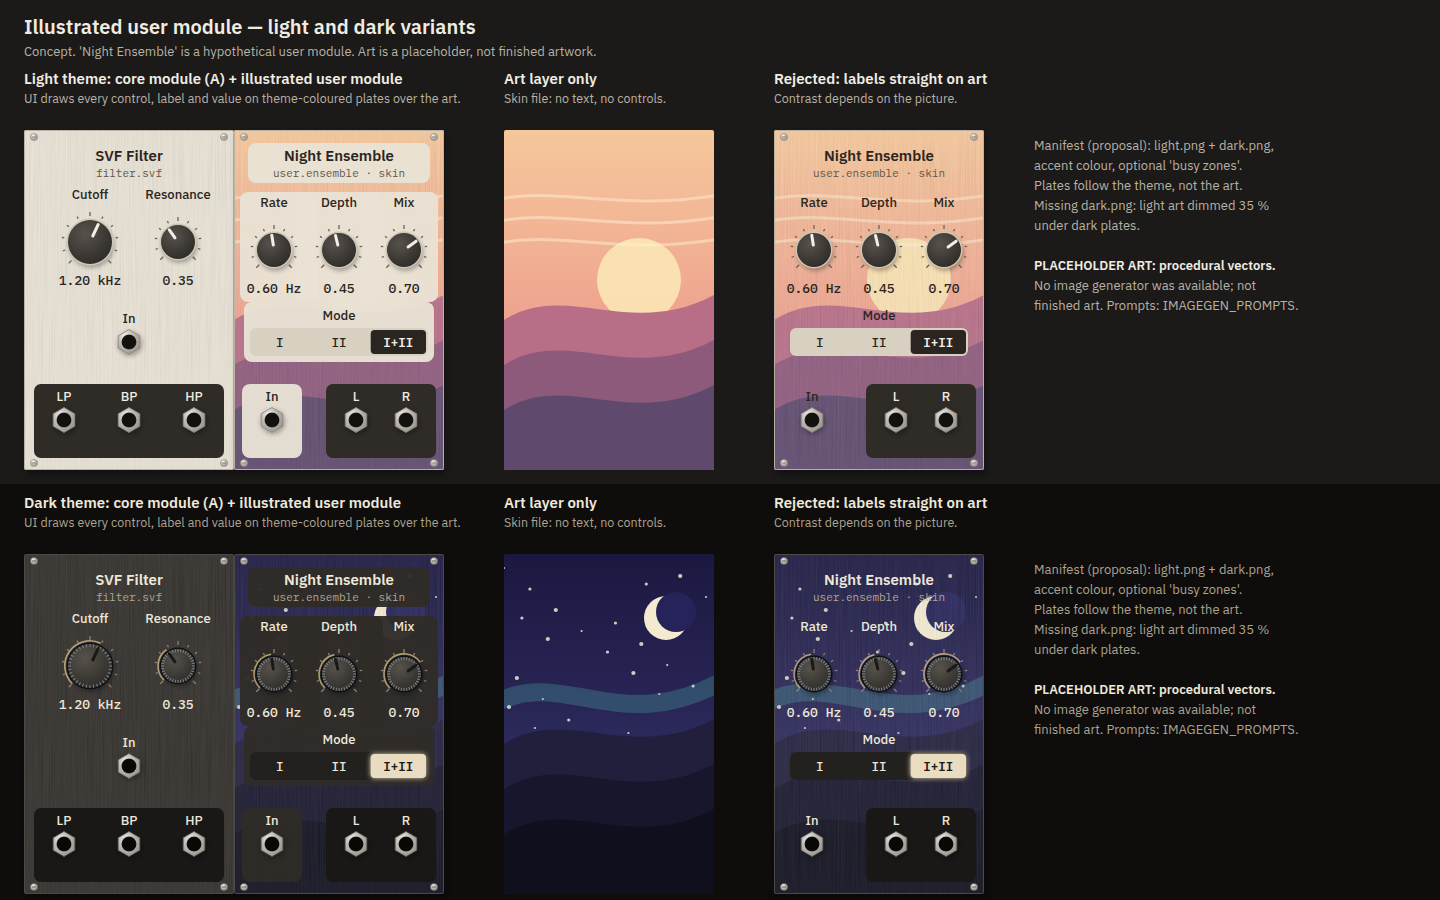
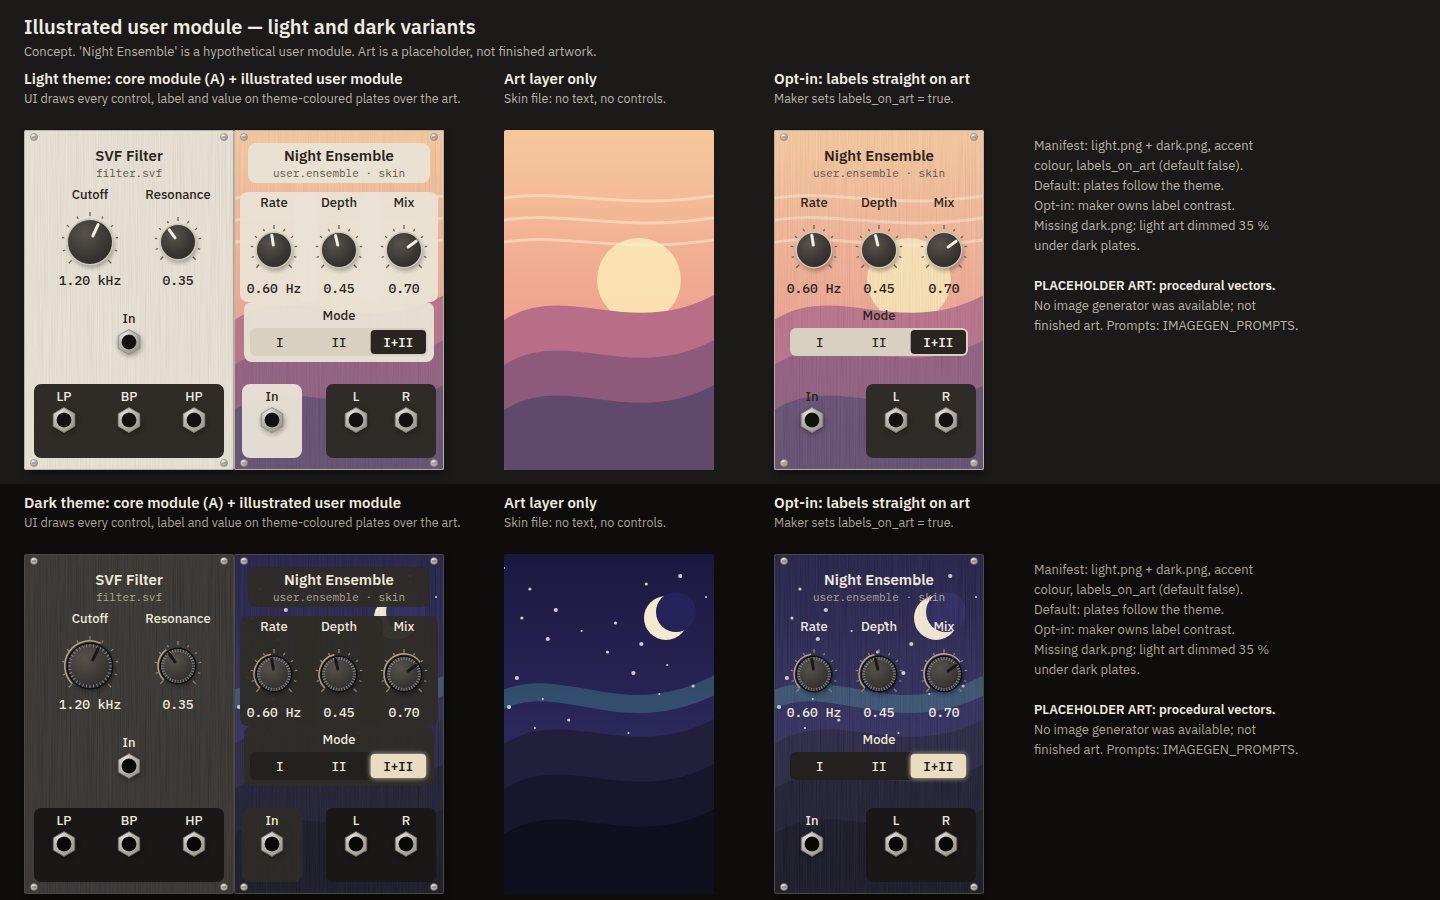
docs: record revision-2 owner review (labels_on_art skin flag) and update handoff
Claude-Session: https://claude.ai/code/session_01EM6uwmmMoUCs7tZSU2Wuto

diff --git a/docs/design/revision-2/render2.py b/docs/design/revision-2/render2.py
@@ -1002,17 +1002,18 @@ def skin_sheet():
         o.append(cell_head(core, ax, y - 64, "Art layer only", ["Skin file: no text, no controls."]))
         o.append(f'<g transform="translate({ax},{y})"><clipPath id="clipart{row}"><rect width="210" height="{PANEL_H}" rx="2"/></clipPath>'
                  f'<g clip-path="url(#clipart{row})">{ensemble_art(dict(w=210), row == 1)}</g></g>')
-        # rejected: labels straight on art
+        # opt-in (skin maker flag): labels straight on art
         bx = ax + 210 + 60
-        o.append(cell_head(core, bx, y - 64, "Rejected: labels straight on art", ["Contrast depends on the picture."]))
+        o.append(cell_head(core, bx, y - 64, "Opt-in: labels straight on art", ["Maker sets labels_on_art = true."]))
         bare = dict(skin, panel="#00000000")
         mm = dict(mods["ens"], x=bx)
         o.append(R.draw_module(dict(bare, art="illustrated"), mm, dict(mods={}, rings={}, badges={}, selected=()))
                  .replace(f'fill="{bare["panel"]}" rx="8" opacity="0.96"', 'fill="none" rx="8" opacity="0"'))
         tx = bx + 210 + 50
-        notes = ["Manifest (proposal): light.png + dark.png,",
-                 "accent colour, optional 'busy zones'.",
-                 "Plates follow the theme, not the art.",
+        notes = ["Manifest: light.png + dark.png, accent",
+                 "colour, labels_on_art (default false).",
+                 "Default: plates follow the theme.",
+                 "Opt-in: maker owns label contrast.",
                  "Missing dark.png: light art dimmed 35 %",
                  "under dark plates.",
                  "",

diff --git a/docs/HANDOFF.md b/docs/HANDOFF.md
@@ -19,15 +19,15 @@ atmosphere, and performed leads.
 
 - `docs/STATUS.md`: the top "Current handover" block is authoritative. Older sections below it
   are partly stale, and the block names which parts.
-- `docs/decisions.md`: append-only rationale. The **last two 2026-09-22 G1 entries** hold
-  Kosta's latest design decisions.
+- `docs/decisions.md`: append-only rationale. The G1 entries and the three latest entries
+  (revision round 2; revision 2 review: owner feedback) hold Kosta's design decisions.
 - `docs/PLAN.md`: the design plan that was executed (P1–P5, then gate G1).
-- `docs/design/REVIEW.md`: the design review package. Supporting files:
-  - `BRIEF.md`: constraints and the capability map.
-  - `INTERACTIONS.md`: the full interaction spec.
-  - `QA.md`
-  - `render.py`: every mockup comes from this one layout model. Run
-    `python3 docs/design/render.py`, or add `--qa` for measurements.
+- `docs/design/revision-2/REVIEW.md`: the **current** design package. Its companions:
+  - `INTERACTIONS.md`: the current interaction spec. It overrides `docs/design/INTERACTIONS.md`.
+    Every rule is tagged [owner], [rec] or [open].
+  - `render2.py`: the mockups. Run `python3 docs/design/revision-2/render2.py`, or add `--qa`.
+- `docs/design/REVIEW.md`, `BRIEF.md`, `QA.md`, `render.py`: revision 1. Kept as history and
+  as the base layout model.
 
 ## State of the build (trust code and git over docs)
 
@@ -41,31 +41,33 @@ atmosphere, and performed leads.
 - Kosta's machine has real audio, a display and a MIDI controller. Pi-4 performance is
   unmeasured.
 
-## Design decisions (Kosta, at G1)
+## Design decisions (Kosta, at G1 and the revision-2 review)
 
-- **Look:** direction A (warm studio hardware) for the core "starter pack" modules. A dark
-  variant of A with B's material character: texture, knurled metal, some glowing indicators.
-- **Skins:** illustrated, image-based skins (the style of the rejected direction C) are for
-  user-made and non-core modules. They are eye-candy that draws people in, and they are
-  theme-dependent (light/dark). The UI always draws every control, label and value on top of a
-  skin, which is what keeps any skin readable.
-- **Modulation:** any knob accepts a modulation cable, Surge/Vital style; there is no CV jack
-  per param. A route is a cable with amount, polarity and bypass. The routing drawer, the jack
-  badges and the rings around knobs are all views of that same cable.
-- **Density:** modules declare primary and advanced params. The **user can choose which params
-  are primary**. Advanced params are shown by expanding the module in place.
-- **Cables:** one rack layout, shown three ways: All (physical, sagging, colour-coded), Focus,
-  and Hidden (jack badges plus the routing drawer).
+- **Look:** direction A (warm studio hardware) for core modules, plus A-dark: A's layout with
+  B's material (texture, knurled metal knobs, restrained glow).
+- **Skins:** illustrated light/dark art for user-made and non-core modules. The UI draws every
+  control, label and value. The skin flag `labels_on_art` is **default false** (labels on theme
+  plates); a skin maker may set it to true, putting labels straight on the art for beauty.
+- **Modulation:** any knob accepts a modulation cable; there is no CV jack per param. Amount,
+  polarity and bypass belong to the route. The cable, drawer row, badge and knob ring are views
+  of the same route.
+- **Density:** modules declare primary/advanced params. The user chooses the primary ones.
+  Advanced params appear by expanding the module in place.
+- **Cables:** one rack layout, shown All / Focus / Hidden.
+- **Revision 2 accepted as the direction** ("all the other things feel right"): the knob
+  anatomy (pointer = base, ring = result, peak dot, depth lanes when inspected); amount as a %
+  of knob travel, also shown in units, summed then clamped; the plug at 6 o'clock as a thinner
+  mod lead; the face = primary controls, with expansion appended right and jacks always on the
+  face; the rich LFO (features marked ◆ are conceptual, not in the engine); a 1440×900
+  default viewport with 1280×800 as the minimum.
 
-## Open questions
+## Open questions (settle in the prototype)
 
-- **Hidden-mode layout:** keep the same rack layout, or rearrange into a compact synth-style
-  layout? Kosta is unsure. The agent recommends building both in the prototype and letting him
-  play.
-- **Viewport:** 1280×800 is "workable but could be a tad better". Keep it as the minimum and
-  pick a larger default design size.
-- **Prototype go-ahead:** Kosta has not explicitly authorized the interactive prototype or any
-  implementation.
+- Hidden-mode layout: keep the same rack, or switch to a compact synth layout? Build both.
+- Expansion: push the neighbours (shown) or float over them? Auto-Focus while expanded?
+- Ring vs knob-body drag at a small knob radius.
+- Envelope-time modulation: continuous vs sampled at stage start (choose by ear).
+- **Prototype go-ahead has not been stated explicitly. Confirm it with Kosta before starting.**
 
 ## Known code gaps behind the design
 
@@ -83,23 +85,18 @@ atmosphere, and performed leads.
 
 ## Candidate next jobs (recommended order; confirm with Kosta before implementation)
 
-1. **Design revision round** (design only; the plan's gate still applies). Deliverables:
-   - a storyboard of LFO → ADSR Attack by dropping a cable on the knob;
-   - a full-featured LFO (sync, phase, amplitude, offset, uni/bipolar, trigger mode, fade-in),
-     compact and expanded, including choosing primary params;
-   - A-dark renders of the reference patch;
-   - one user-skinned module in light and dark;
-   - a larger default viewport.
-
-   Extend `render.py`, keep QA honest, and return to Kosta for review.
-2. **Engine groundwork for param modulation:** knob-as-destination routes with per-cable
-   amount/polarity, plus tests. This is safe to run in parallel with job 1, and it unblocks the
-   core decision.
-3. **Interactive prototype** of A: patching, knobs, drawer, All/Focus/Hidden, both hidden-mode
-   layouts. Only after Kosta says go.
-4. Deferred until Kosta prioritizes them: clock and sequencers (the performance target), more
-   modulation sources (MSEG, macros, velocity/aftertouch, random), and the correctness risks
-   listed above.
+1. ~~Design revision round~~: done and reviewed (revision 2).
+2. **Interactive prototype** of the revision-2 design, isolated from the engine: rack with
+   A/A-dark; knob drop, ring and body drag; route card and inspector; All/Focus/Hidden; both
+   hidden-mode layouts; expand/collapse and choosing primary controls. It has to answer the
+   open questions above. Start only after Kosta's go-ahead.
+3. **Engine groundwork for param modulation:** knob routes with per-route amount/sign/bypass,
+   summed then clamped, and tests. Independent of job 2.
+4. **Correctness prerequisites** for any playable integration: MIDI during swaps, the
+   deferred-drop collector, MIDI routing that assumes module ID 1, undo op grouping.
+5. Deferred until Kosta prioritizes them: the LFO features marked ◆, clock and sequencers,
+   more modulation sources, real skin art (image generation; prompts are in
+   `docs/design/IMAGEGEN_PROMPTS.md`).
 
 ## Rules for delegated jobs
 

diff --git a/docs/STATUS.md b/docs/STATUS.md
@@ -9,29 +9,21 @@ Last updated: 2026-09-22, design revision round 2. Docs/mockups only: no product
 or prototype work.
 
 **Current handover (supersedes every older handover note below):** design revision round 2 is
-done and **stopped for the owner's visual review**. Package: [`design/revision-2/REVIEW.md`](design/revision-2/REVIEW.md);
-spec: [`design/revision-2/INTERACTIONS.md`](design/revision-2/INTERACTIONS.md); sources:
-`design/revision-2/render2.py` (extends `design/render.py`; revision-1 images re-render
-byte-identical). It covers LFO → ADSR Attack by dropping on the knob (amount, invert, bypass,
-hide, inspect, undo), a rich LFO (compact / expanded / primary selection; features the engine
-lacks are marked ◆ conceptual), the difficult cases, A-light + A-dark reference patch with
-cables visible/hidden, an illustrated user module in light/dark (**placeholder art**, since no
-image generator was available), 1280×800 minimum and crowded examples, with measured QA.
+done and reviewed. The owner likes it; "all the other things feel right" (decisions.md,
+"Revision 2 review: owner feedback"). One change: skins get a `labels_on_art` maker flag,
+default false (theme plates), which a maker may set to true. The package is
+[`design/revision-2/REVIEW.md`](design/revision-2/REVIEW.md), the spec is
+[`design/revision-2/INTERACTIONS.md`](design/revision-2/INTERACTIONS.md), and the sources are in
+`design/revision-2/render2.py`.
 
-Owner decisions from G1 stand (decisions.md G1 entries). Everything new in revision 2 is an
-**agent recommendation, not approved**. It is logged in decisions.md "Design revision round 2".
+Open, to be settled in the prototype: hidden-mode layout; expansion pushing vs floating over
+neighbours; ring-vs-body drag at small radius; continuous vs stage-start envelope-time
+modulation. Viewport: 1440×900 default, 1280×800 minimum.
 
-Waiting on the owner:
-1. Do expanded modules + user-selected primary controls feel right?
-2. Does knob modulation stay clear with cables visible and hidden?
-3. What needs revision, or may the isolated interactive prototype begin?
-
-Still open: hidden-mode layout (settle in the prototype); expansion pushes neighbours vs
-floats over them; ring-vs-body drag at small knob radius; continuous vs stage-start envelope
-time modulation. Proposed default viewport 1440×900; 1280×800 stays the minimum.
-
-Not authorized: interactive prototype, production UI, engine groundwork. MIDI / graph-swap /
-undo correctness remains a prerequisite for any playable integration.
+Next: hand off to the supervisor with the updated [`HANDOFF.md`](HANDOFF.md). The prototype
+go-ahead has not been stated explicitly; the supervisor confirms it with Kosta first. No
+implementation has started. MIDI / graph-swap / undo correctness remains a prerequisite for
+any playable integration.
 
 The handoff prompt for the arbiter agent is [`HANDOFF.md`](HANDOFF.md).
 

diff --git a/docs/decisions.md b/docs/decisions.md
@@ -1606,3 +1606,21 @@ labelled as such. `docs/design/render.py` gained two backward-compatible hooks (
 width, header width). Revision-1 PNGs re-render byte-identical.
 
 Stopped for owner review; no prototype or implementation started.
+
+## 2026-09-22 — Revision 2 review: owner feedback
+
+Owner reviewed the revision-2 images. Recorded in substance:
+
+- Likes the revision. "All the other things feel right." That covers expanded modules with
+  user-chosen primary controls, and knob modulation with cables visible and hidden. The
+  revision-2 recommendations are therefore the accepted design direction. The items that
+  revision 2 itself marked [open] stay open for the prototype: hidden-mode layout, expansion
+  pushing vs floating over neighbours, ring-vs-body drag at small radius, and continuous vs
+  stage-start envelope-time modulation.
+- **Skins: change.** "Labels straight on art" is not rejected. It becomes a skin-maker flag,
+  `labels_on_art`, **default false** (theme plates). A maker may set it to true because it is
+  much more beautiful, and beauty is the point of skin art. Agent addition, not decided by the
+  owner: when the flag is set, the loader warns (without blocking) if label contrast is
+  below 4.5:1.
+- Owner asked to hand off to the supervisor agent. Prototype go-ahead was **not** stated
+  explicitly; the supervisor should confirm it before starting the prototype.

diff --git a/docs/design/revision-2/INTERACTIONS.md b/docs/design/revision-2/INTERACTIONS.md
@@ -204,6 +204,11 @@ the prototype to show that it doesn't cause mis-grabs at r = 17.
   theme's colour**, not in the art's colour (the revision-1 C clear-zone rule). Text contrast
   therefore never depends on the picture. Measured against the placeholder art's extreme
   colours, the worst case is 10.2:1 (dark) and 11.1:1 (light).
+- **[owner]** Skin flag `labels_on_art`, **default false** (plates as above). A skin maker may
+  set it to true: labels and values then sit straight on the art, with no plates. Beauty is the
+  point of a skin, so the maker takes responsibility for contrast.
+- **[rec]** When `labels_on_art` is true, the skin loader measures label contrast over the art
+  and **warns** the maker if it is below 4.5:1. It does not block the skin.
 - **[rec]** If a skin has no `dark.png`, the light art is dimmed 35 % under dark plates.
 - Core modules stay A / A-dark **[owner]**.
 

diff --git a/docs/design/revision-2/REVIEW.md b/docs/design/revision-2/REVIEW.md
@@ -81,8 +81,9 @@ travel, and the UI also shows it in destination units.
 
 **The art is a procedural PLACEHOLDER.** No image generator was available in this session.
 This is not finished art. The sheet shows the rule: the skin supplies art only. The UI draws
-every control, label and value on **theme-coloured** plates. The "rejected" column shows labels
-placed straight on the art. The prompts for real art are in
+every control, label and value on **theme-coloured** plates by default. **Owner decision
+(after review):** the maker may set `labels_on_art = true` to put labels straight on the art
+(the third column). The prompts for real art are in
 [`../IMAGEGEN_PROMPTS.md`](../IMAGEGEN_PROMPTS.md); they need a light/dark pair added.
 
 ## 6. Minimum window and crowding
